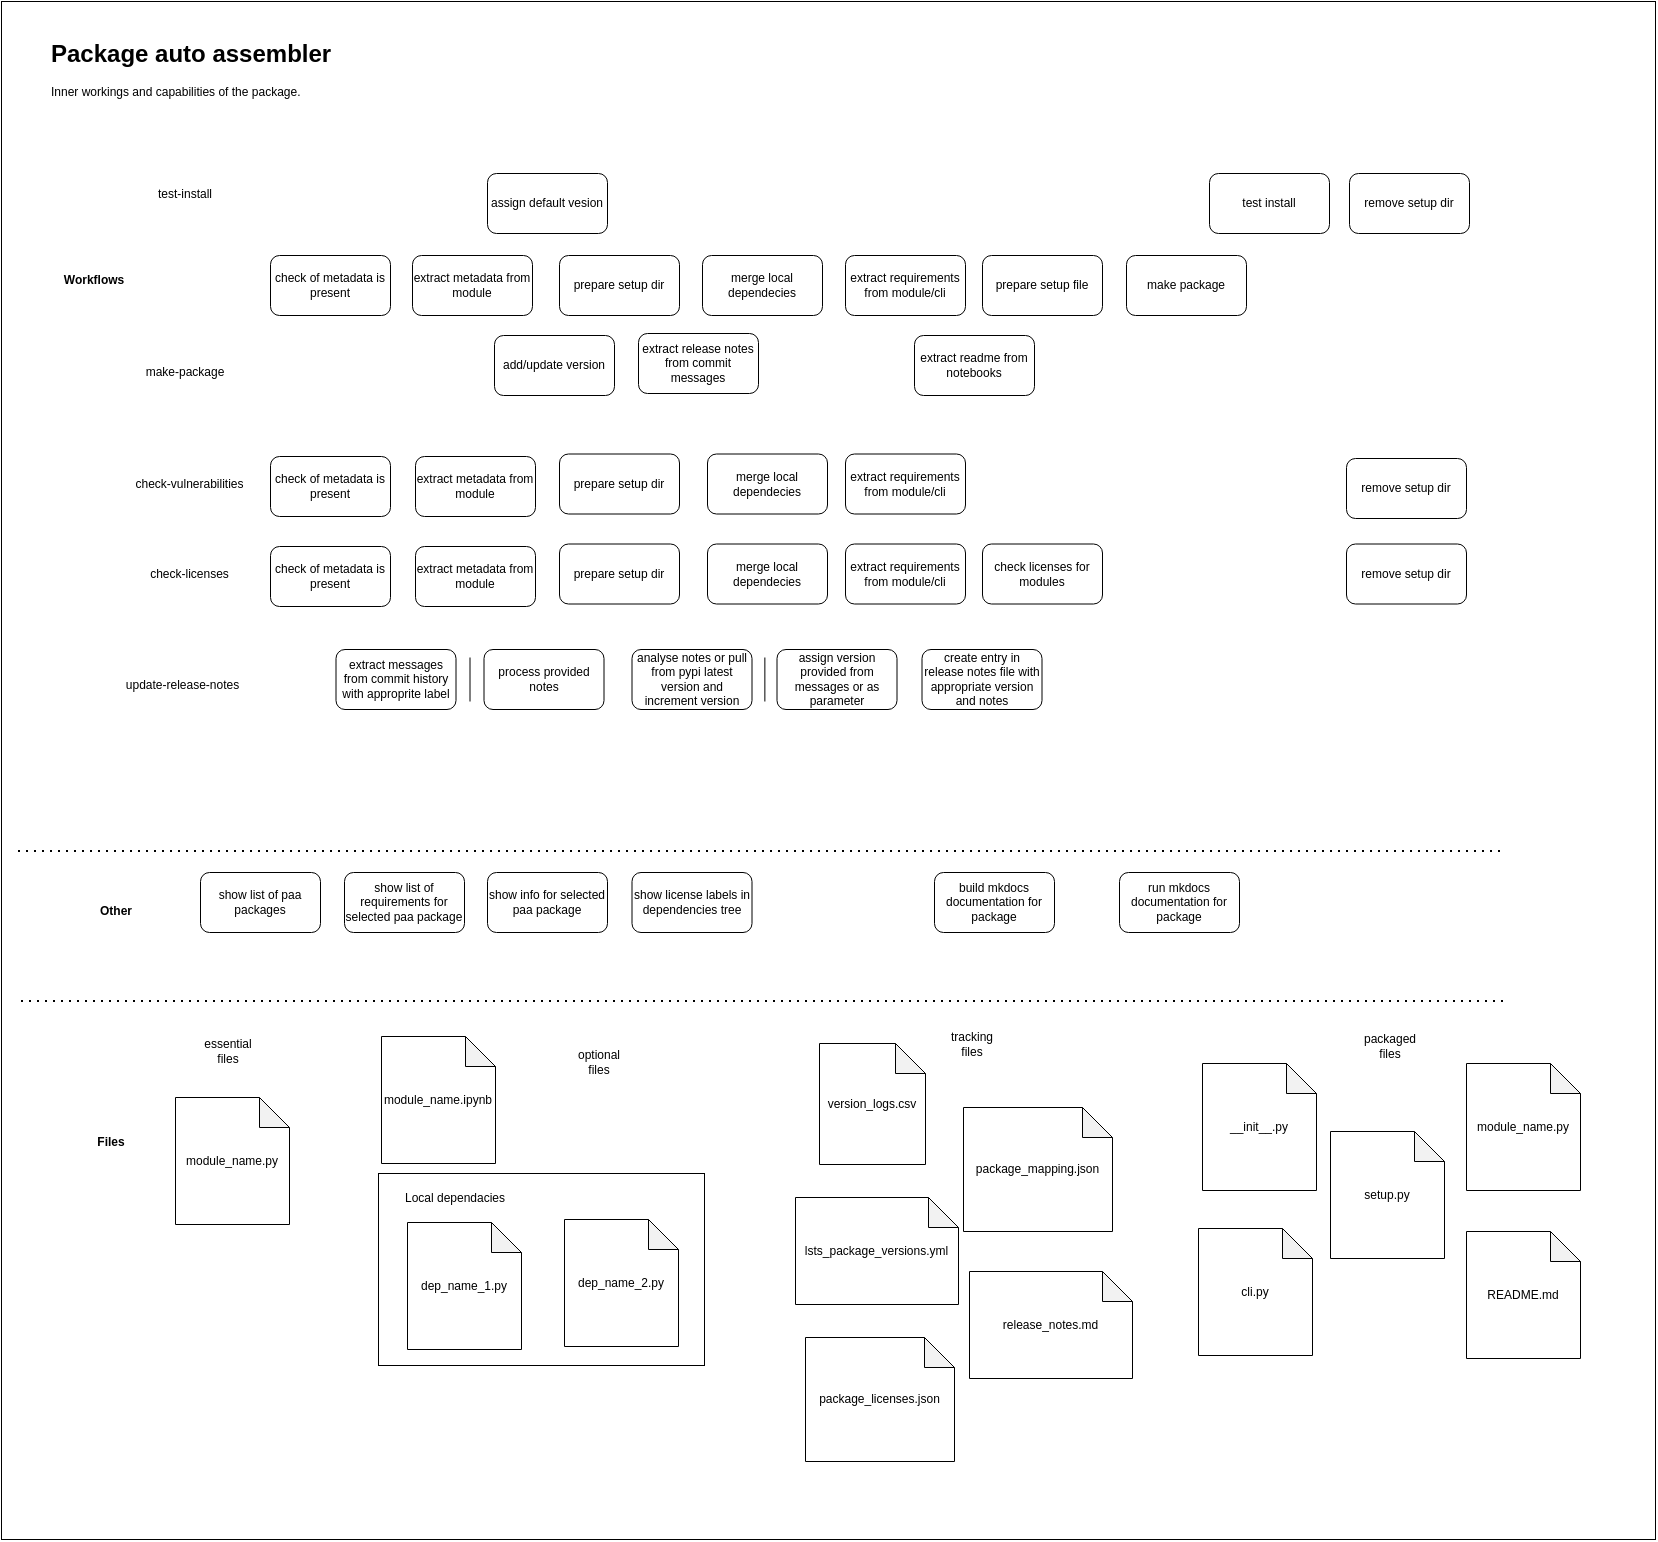
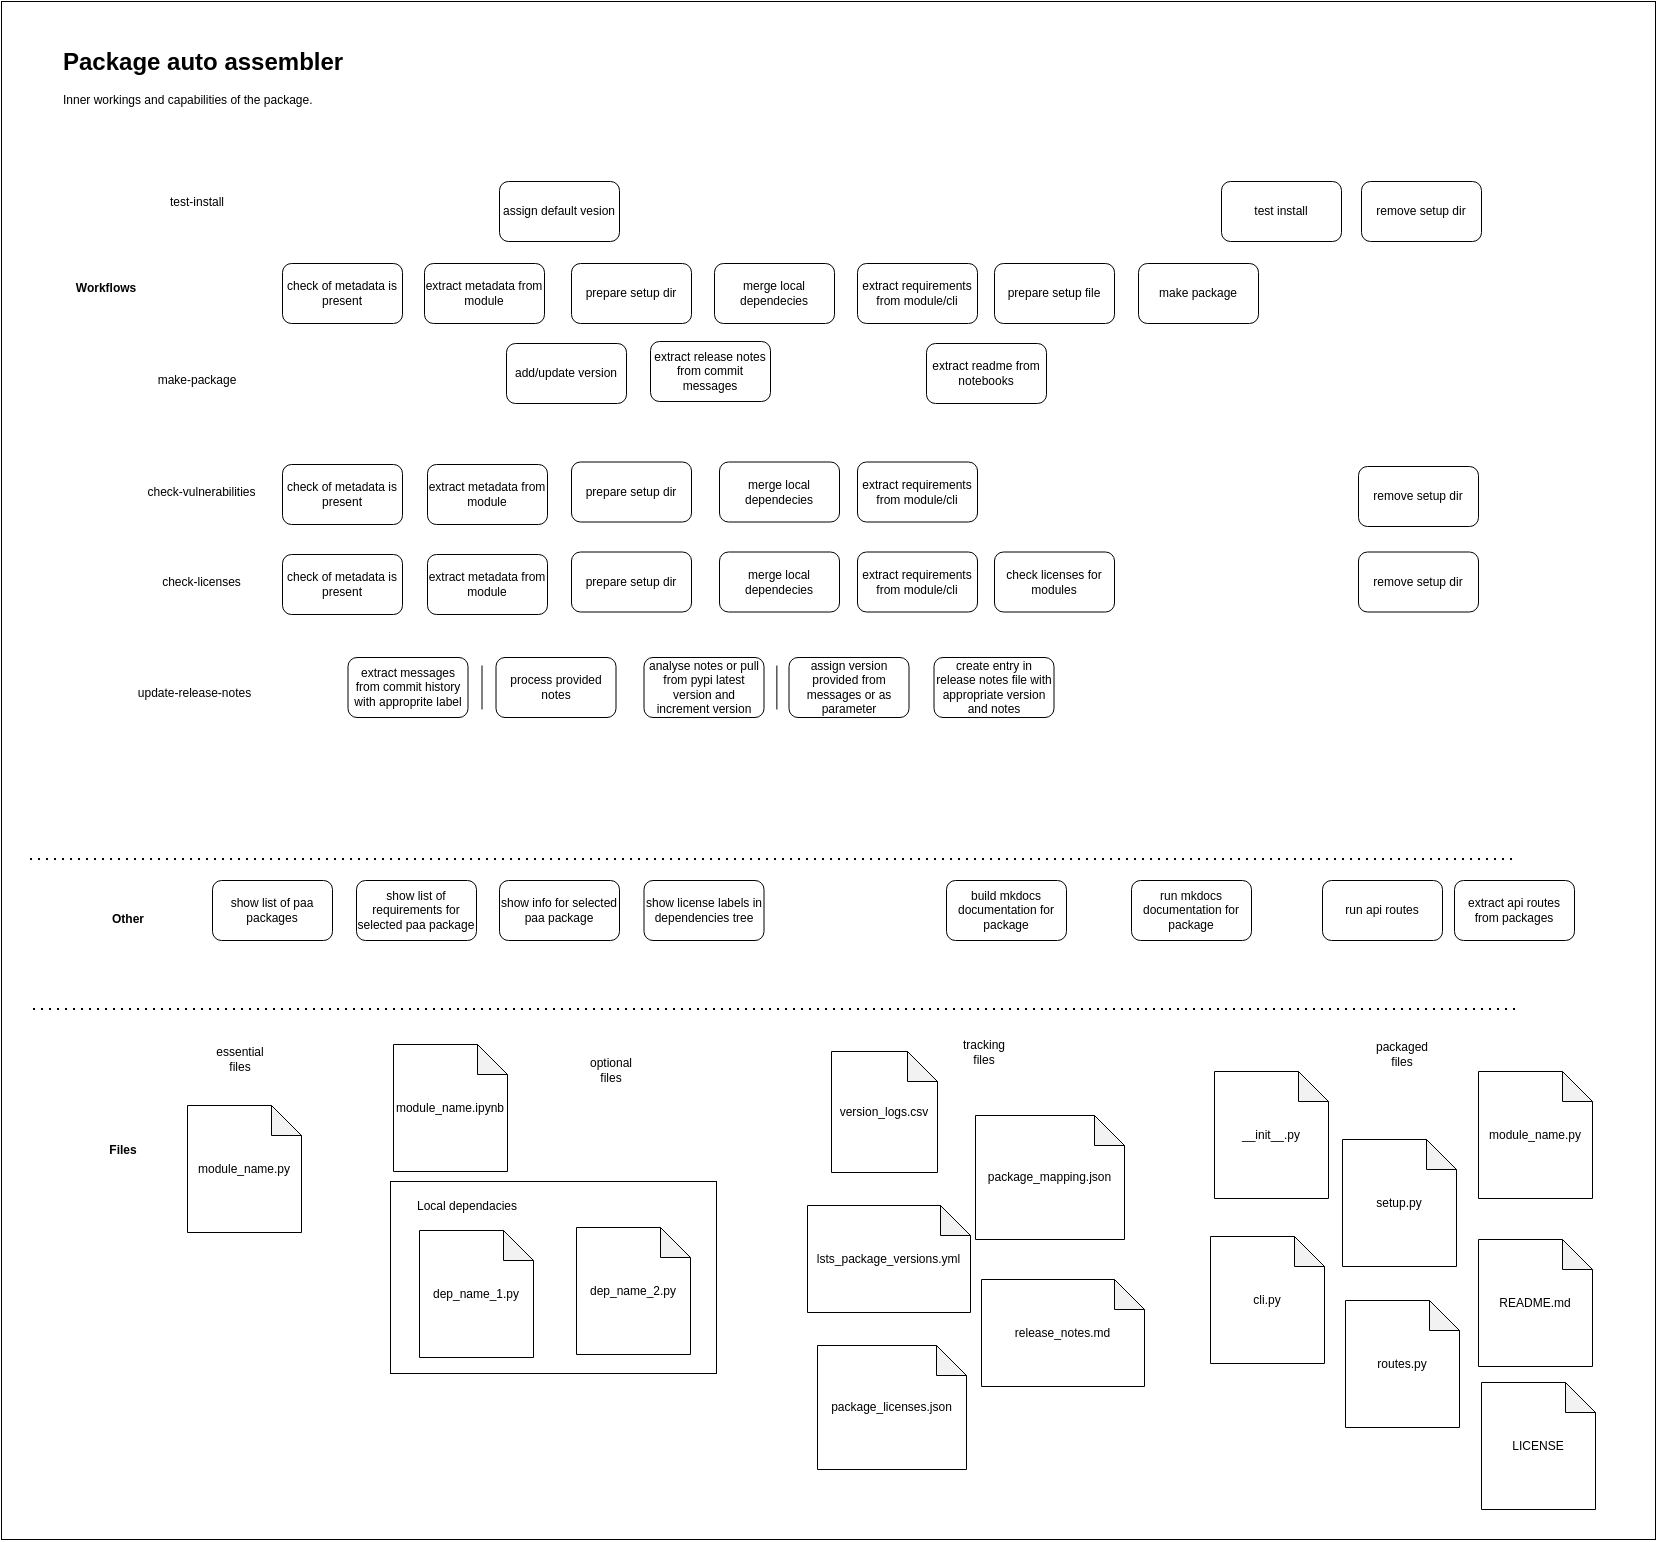
Update README

diff --git a/docs/package_auto_assembler.md b/docs/package_auto_assembler.md
@@ -1282,7 +1282,57 @@ da.find_unexpected_licenses_in_deps_tree(
     Exception: Found unexpected licenses!
 
 
-### 10. Making a package
+### 10. Adding cli interfaces
+
+The tool allows to make a package with optional cli interfaces. These could be sometimes preferable when a package contains a standalone tool that would be called from script anyway.
+
+All of the cli logic would need to be included within a `.py` file which should be stored within `cli_dir` provided in `.paa.config`. 
+Dependencies from these files are extracted in the similar manner to the main module.
+
+Tools from main `.py` file could still be imported like the following:
+
+```python
+from package_name.package_name import ToBeImported
+```
+
+The code is wired in `setup.py` via the following automatically assuming that appropriate file with the same name as the package exists within `cli_dir` location.
+
+```python
+...,
+entry_points = {'console_scripts': [
+    '<package_alias> = package_name.cli:cli']} ,
+...
+```
+
+Alias for name could be provided via the following piece of code, defined after imports, otherwise package name would be used.
+
+```python 
+__cli_metadata__ = {
+    "name" : <package_alias>
+}
+```
+
+Package-auto-assembler tool itself uses [`click`](https://pypi.org/project/click/) dependency to build that file, use its [cli definition](https://github.com/Kiril-Mordan/reusables/blob/main/cli/package_auto_assembler.py) as example.
+
+
+### 11. Adding routes and running FastAPI application
+
+The tool allows to make a package with optional routes for FastAPI application and run them. Each packages can have one routes file where its logic should be defined. Package-auto-assembler itself can combine multiple routes from packages and filepaths into one application.
+
+A `.py`  file with the same name of the package should be stored within `api_routes_dir` provided in `.paa.config`.
+
+Dependencies from these files are extracted in the similar manner to the main module.
+
+Tools from main `.py` file could still be imported like the following:
+
+```python
+from package_name.package_name import ToBeImported
+```
+
+Api description, middleware and run parameters could be provided via optional `yml` files.
+
+
+### 12. Making a package
 
 Main wrapper for the package integrates described above components into a class that could be used to build package building pipelines within python scripts. 
 
@@ -1515,7 +1565,7 @@ paa.make_package(
 
 
 
-### 11. Making simple MkDocs site
+### 13. Making simple MkDocs site
 
 Package documentation can be presented in a form of mkdocs static site, which could be either served or deployed to something like github packages. 
 
